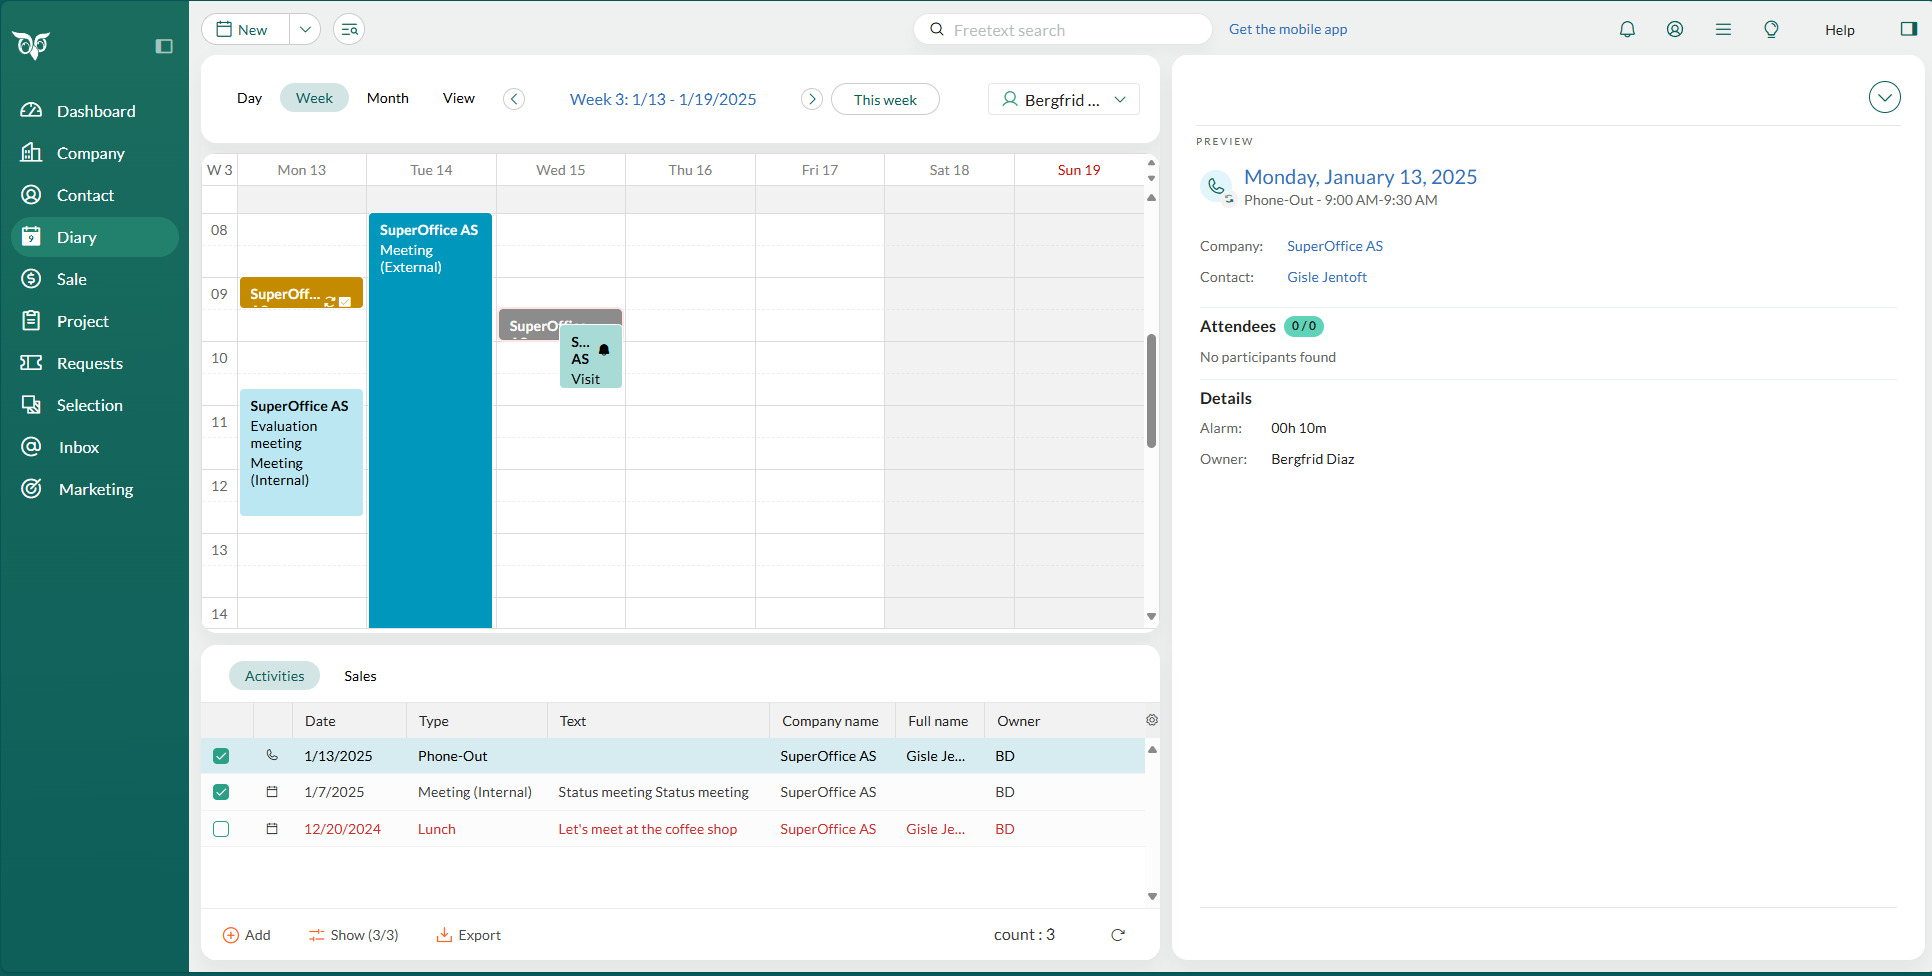
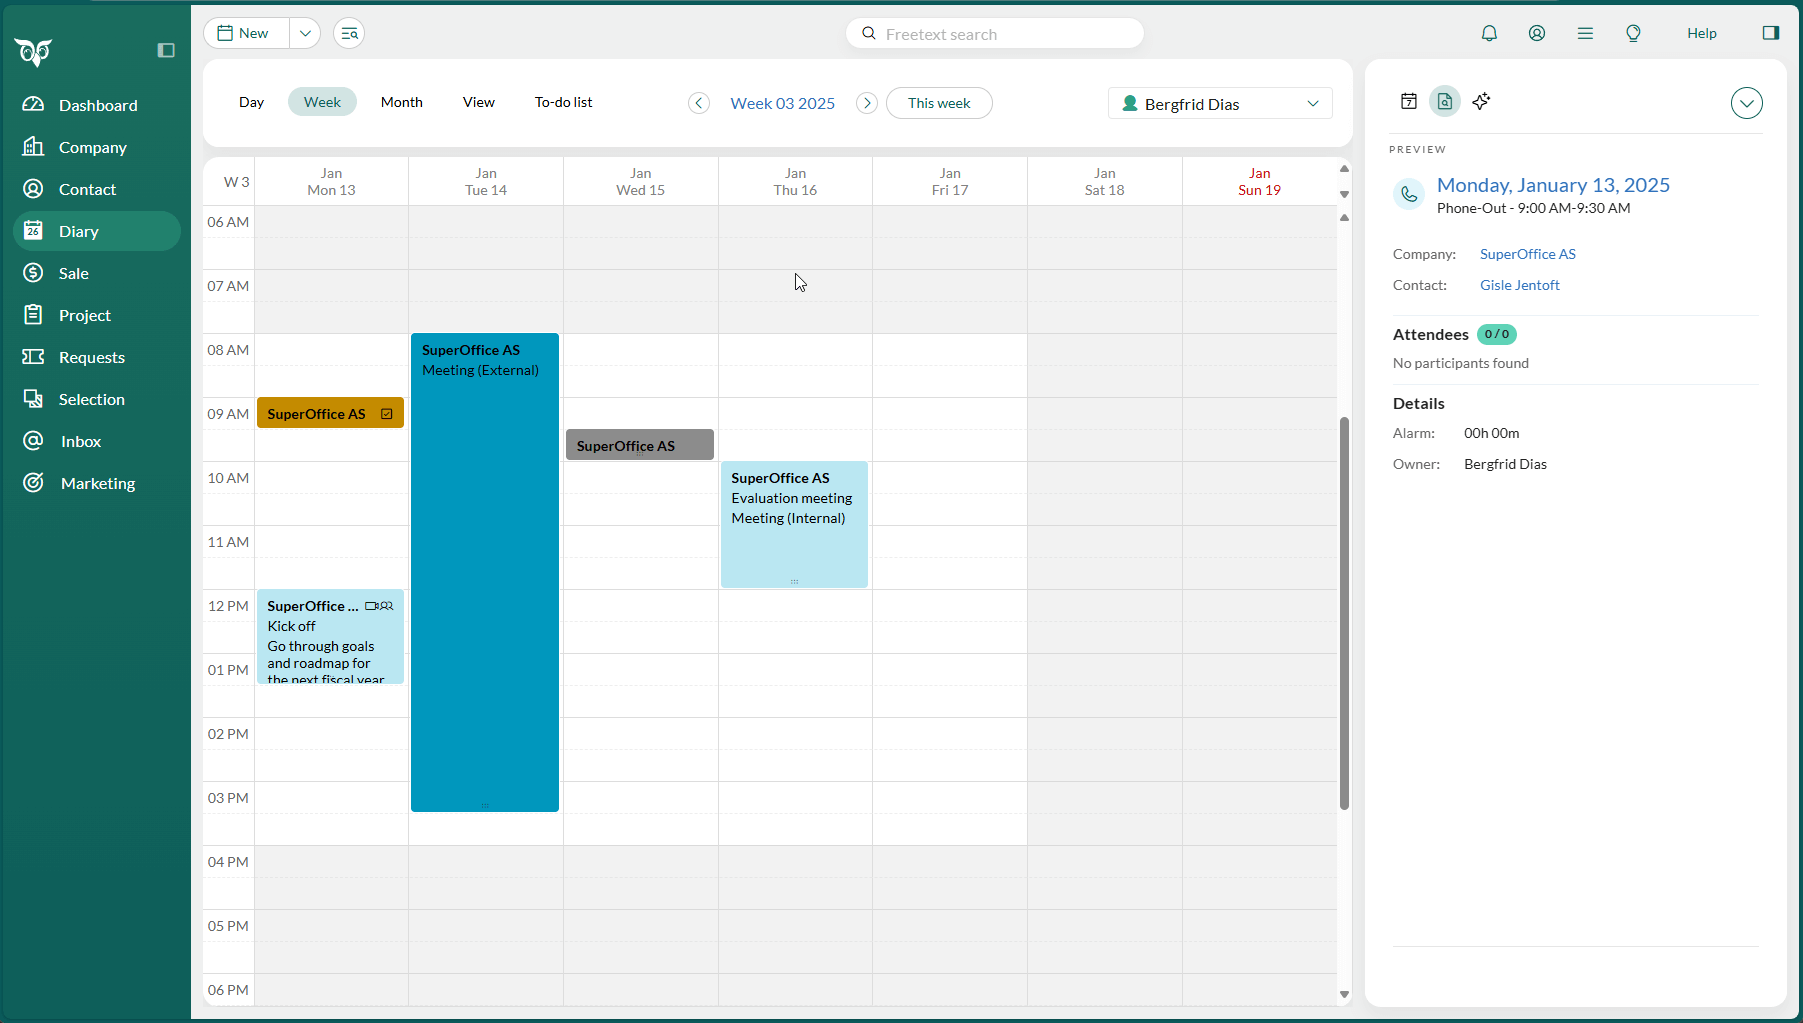
#1848 Revise todo list description, retake screenshot

diff --git a/docs/de/diary/learn/index.md b/docs/de/diary/learn/index.md
@@ -4,8 +4,8 @@ title: Kalender
 description: Der SuperOffice-Kalender ist das Herzstück Ihres CRM-Systems. Diese Anleitungen helfen Ihnen, sich im Kalender zurechtzufinden und effizient mit ihm zu arbeiten.
 keywords: Kalender öffnen, Kalenderansicht, Aktivitäten-Registerkarte, Aufgabenliste, To-do-Liste, Folgeaufgabe, Kalender
 author: Bergfrid Dias
-date: 02.11.2025
-version: 10.5.2
+date: 06.26.2025
+version: 10.5.5
 topic: concept
 license: salesessentials, serviceessentials, marketingessentials
 audience: person
@@ -22,7 +22,7 @@ Die Kalenderansicht ist das zentrale Element in SuperOffice CRM zur Verwaltung v
 Der Kalender kombiniert die folgenden Hauptkomponenten:
 
 * **Kalender:** Zeigt Folgeaufgaben, die für bestimmte Tage und Uhrzeiten geplant sind. Ähnelt einem Terminplaner mit separaten Seiten für jeden Tag, jede Woche und jeden Monat.
-* **Aufgabenliste:** Zeigt (nicht abgeschlossene) Aktivitäten ohne bestimmte Uhrzeit, wie Anrufe, Aufgaben oder geplante Verkäufe. Dient als To-do-Liste.
+* **Aufgabenliste:** Zeigt (nicht abgeschlossene) Aktivitäten ohne bestimmte Uhrzeit, wie Aufgaben oder geplante Verkäufe.
 
 Durch die flexiblen Ansichten ermöglicht der Kalender eine nahtlose Zusammenarbeit und erleichtert die Planung von Tagen, Wochen oder Monaten.
 

diff --git a/docs/nl/diary/learn/index.md b/docs/nl/diary/learn/index.md
@@ -2,10 +2,10 @@
 uid: help-nl-diary
 title: Agenda
 description: De SuperOffice Agenda is het hart van uw CRM-systeem. Deze handleidingen helpen u te leren werken met de agenda.
-author: Bergfrid Dias
-date: 02.21.2025
-version: 10.5.2
 keywords: agenda openen, scherm Agenda, kalender, sectietabblad Activiteiten, activiteit, takenlijst, taak, taken, vervolgactiviteit, agenda
+author: Bergfrid Dias
+date: 06.26.2025
+version: 10.5.5
 topic: concept
 license: salesessentials, serviceessentials, marketingessentials
 audience: person
@@ -22,7 +22,7 @@ Het scherm **Agenda** is het centrale onderdeel van SuperOffice CRM voor het beh
 De agenda bevat de volgende belangrijke onderdelen:
 
 * **Kalender:** Toont vervolgactiviteiten die zijn ingepland op specifieke data en tijden. Dit werkt als een papieren agenda met afzonderlijke pagina's voor elke dag, week en maand.
-* **Takenlijst:** Toont onvoltooide activiteiten zonder specifieke tijd, zoals oproepen, taken en verkopen. Dit fungeert als een takenlijst.
+* **Takenlijst:** Toont onvoltooide activiteiten zonder specifieke tijd, zoals taken en verkopen.
 
 Dankzij de flexibele weergaven in de agenda kunt u eenvoudig samenwerken en uw dag, week of maand efficiënt plannen.
 

diff --git a/docs/da/diary/learn/index.md b/docs/da/diary/learn/index.md
@@ -4,8 +4,8 @@ title: Dagbog
 description: SuperOffice Dagbog er hjertet i dit CRM-system. Disse vejledninger hjælper dig med at navigere i og arbejde med dagbogen.
 keywords: åbn Dagbog, skærmbilledet Dagbog, kalender, detaljekortet Aktiviteter, aktivitet, opgaveliste, to-do-liste, opfølgning, dagbog
 author: Bergfrid Dias
-date: 02.21.2025
-version: 10.5.2
+date: 06.26.2025
+version: 10.5.5
 topic: concept
 license: salesessentials, serviceessentials, marketingessentials
 audience: person
@@ -22,7 +22,7 @@ Skærmbilledet Dagbog er det centrale sted i SuperOffice CRM til håndtering af 
 Dagbogen kombinerer følgende hovedkomponenter:
 
 * **Kalender:** Viser opfølgninger, der er planlagt til bestemte datoer og tidspunkter. Kalenderen fungerer som en digital planlægger med separate sider for hver dag, uge og måned.
-* **To-do-liste:** Viser aktiviteter uden et fastsat tidspunkt, såsom opgaver og opkald, samt salg. Denne sektion fungerer som en to-do-liste.
+* **To-do-liste:** Viser aktiviteter uden et fastsat tidspunkt, såsom opgaver og salg.
 
 Med sine fleksible visninger sikrer Dagbogen problemfri planlægning og samarbejde, så du nemt kan organisere din dag, uge eller måned.
 

diff --git a/docs/sv/diary/learn/index.md b/docs/sv/diary/learn/index.md
@@ -4,8 +4,8 @@ title: Kalender
 description: SuperOffice-kalendern är en central funktion i ditt CRM-system. De här guiderna förklarar hur du använder kalendern.
 keywords: kalender, kalenderfönster, händelse, att-göra-lista, uppgift, bokning, möte, telefon, samtal
 author: Bergfrid Dias
-date: 02.21.2025
-version: 10.5
+date: 06.26.2025
+version: 10.5.5
 topic: concept
 license: salesessentials, serviceessentials, marketingessentials
 audience: person
@@ -22,7 +22,7 @@ Kalender-fönstret är den centrala platsen i SuperOffice CRM för att hantera [
 Kalendern består av följande huvudkomponenter:
 
 * **Kalender:** Visar händelser som är planerade till specifika datum och tider. Det fungerar som en digital almanacka med separata vyer för dag, vecka och månad.
-* **Att-göra-lista:** Visar (icke slutförda) aktiviteter utan specifika tider, såsom samtal, uppgifter och försäljningar. Den fungerar som en checklista.
+* **Att-göra-lista:** Visar (icke slutförda) aktiviteter utan specifika tider, såsom uppgifter och försäljningar.
 
 Med flexibla vyer säkerställer kalendern smidig planering och samarbete, så att du enkelt kan strukturera din dag, vecka eller månad.
 

diff --git a/docs/no/diary/learn/index.md b/docs/no/diary/learn/index.md
@@ -4,8 +4,8 @@ title: Dagbok
 description: SuperOffice-dagboken er hjertet i CRM-systemet ditt. Disse veiledningene hjelper deg med å navigere og arbeide i dagboken.
 keywords: åpne dagbok, dagbokskjerm, kalender, Aktiviteter-fanen, aktiviteter, oppgaveliste, oppfølging, dagbok
 author: Bergfrid Dias
-date: 02.05.2025
-version: 10.5.2
+date: 06.26.2025
+version: 10.5.5
 topic: concept
 license: salesessentials, serviceessentials, marketingessentials
 audience: person
@@ -22,7 +22,7 @@ Dagboken er hjertet i SuperOffice CRM og brukes til å administrere [oppfølging
 Dagboken kombinerer følgende nøkkelkomponenter:
 
 * **Kalender:** Viser aktiviteter planlagt for spesifikke datoer og tidspunkter. Den fungerer som en digital planbok med separate sider for hver dag, uke og måned.
-* **Oppgaveliste:** Viser aktiviteter uten spesifikke tidspunkter, for eksempel samtaler og oppgaver. Denne fungerer som en gjøremålsliste.
+* **Oppgaveliste:** Viser aktiviteter uten spesifikke tidspunkter, for eksempel oppgaver og salg.
 
 Med fleksible visninger sikrer dagboken sømløst samarbeid og lar deg planlegge dagen, uken eller måneden på en effektiv måte.
 

diff --git a/docs/en/diary/learn/index.md b/docs/en/diary/learn/index.md
@@ -4,8 +4,8 @@ title: Diary
 description: The SuperOffice Diary is the heart of your CRM system. These how-to guides will help you learn how to navigate in and work with the diary.
 keywords: open Diary, Diary screen, calendar, Activities section tab, activities, to-do list, task list, follow-up, diary
 author: Bergfrid Dias
-date: 01.20.2025
-version: 10.5
+date: 06.26.2025
+version: 10.5.5
 topic: concept
 license: salesessentials, serviceessentials, marketingessentials
 audience: person
@@ -22,7 +22,7 @@ The Diary screen is the central hub of SuperOffice CRM for managing [follow-ups]
 The Diary combines the following key components:
 
 * **Calendar:** Shows follow-ups scheduled for specific dates and times. It is similar to a Filofax, with separate pages for every day, week, and month.
-* **To-do list:** Shows (uncompleted) activities without specific times, such as calls and to-dos, and sales. This acts as a to-do list.
+* **To-do list:** Shows (uncompleted) activities without specific times, such to-dos and sales.
 
 With its flexible views, the Diary ensures seamless collaboration, allowing you to plan your day, week, or month with ease.
 
